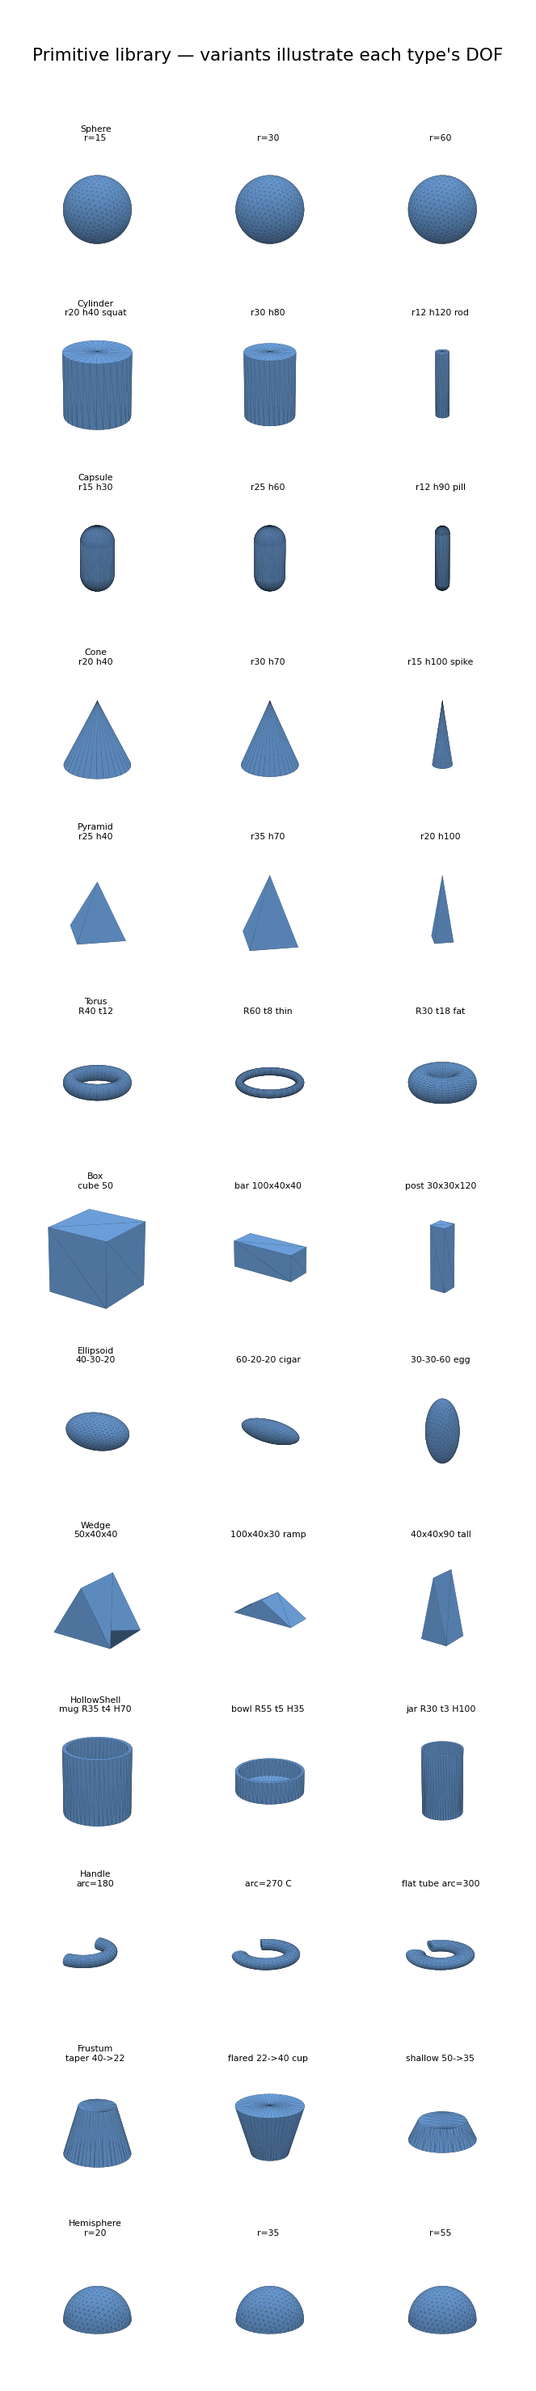
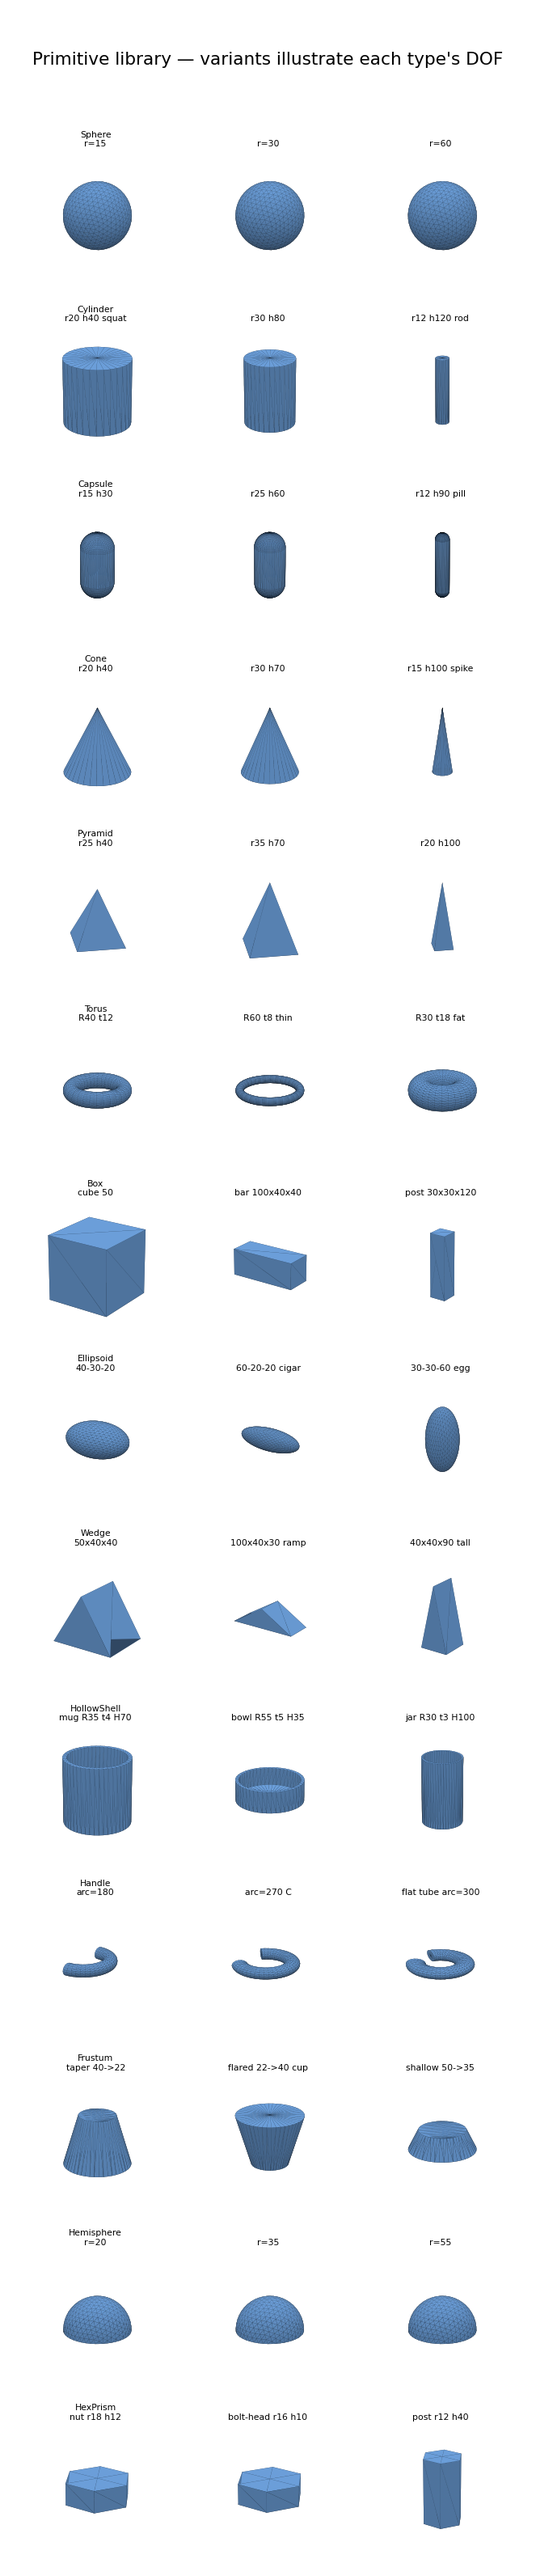
feat: cap per-type sampling + hex_prism (14 primitives) — fix handle over-use, finish audit
Handle over-selection: the highly-graspable handle was being sampled ~38% of
parts. Fix in cem.py: (1) lower the accessory types' initial weight (handle 0.5,
torus 0.7); (2) cap any single type at 18% of the learned distribution
(_cap_type_probs water-fills the excess into the other ACTIVE types, preserving
the v1 paper_repro 4-type palette — no-op when <=4 types are active). Measured:
handle 38% -> 16%, max single-type share <=18%, distribution now diverse.

Hex prism (last audit proposal, v2.5): HexPrism primitive
(cylinder(sections=6), 2 DOF, exact analytic volume) + PRIMITIVE_SPECS row;
nut and bolt rewired off the round cylinder / 4-gon pyramid to a real hex.
118 tests pass; primitive set is now 14 types; galleries + docs/README/website
updated. The fidelity audit is fully closed — all five proposed primitives built.

diff --git a/docs/index.html b/docs/index.html
@@ -250,9 +250,9 @@
         <div class="column is-6">
           <div class="box">
             <h3 class="title is-5"><span class="pillar-tag" style="background:#2196F3;">1</span> Parametric primitives</h3>
-            <p>Each object is a union of primitives drawn from <strong>13 types</strong> (box, cylinder,
-            sphere, capsule, cone, pyramid, torus, ellipsoid, wedge, plus a hollow shell and a handle for
-            realistic containers) with rigid transforms. Mass, COM, and inertia are closed-form or
+            <p>Each object is a union of primitives drawn from <strong>14 types</strong> (box, cylinder,
+            sphere, capsule, cone, pyramid, torus, ellipsoid, wedge, plus a hollow shell, handle, frustum,
+            hemisphere, and hex prism for realistic containers, tapers, domes, and fasteners) with rigid transforms. Mass, COM, and inertia are closed-form or
             mesh-derived, so every exported asset ships with physically consistent inertial properties.</p>
           </div>
         </div>
@@ -300,7 +300,7 @@
     <div class="container is-max-desktop">
       <h2 class="title is-3 has-text-centered">Shape library &amp; limitations</h2>
       <p class="has-text-centered" style="max-width:760px;margin:0 auto 1.5rem;">
-        Objects are assembled from 13 primitive types. Each row below varies one type to show its
+        Objects are assembled from 14 primitive types. Each row below varies one type to show its
         <em>degrees of freedom</em> &mdash; how many independent shape parameters it has (a sphere has
         one, a box has three). The newest two &mdash; a <strong>hollow shell</strong> and a
         <strong>handle</strong> &mdash; were added from this audit to make mugs, cups, and pots real
@@ -309,7 +309,7 @@
         <div class="column is-two-thirds">
           <div class="figure-container">
             <img src="./static/images/primitives.png" alt="Primitive gallery">
-            <p class="figure-caption">The 13 primitive types, each shown with variants that exercise its
+            <p class="figure-caption">The 14 primitive types, each shown with variants that exercise its
               degrees of freedom.</p>
           </div>
         </div>

diff --git a/src/cem.py b/src/cem.py
@@ -24,7 +24,7 @@ from pathlib import Path
 from primitives import (
     CompositeObject, Primitive, Box, Cylinder, Sphere, Capsule,
     Cone, Pyramid, Torus, Ellipsoid, Wedge, HollowShell, Handle, Frustum, Hemisphere,
-    Transform, PrimitiveType, seat_height, half_extents,
+    HexPrism, Transform, PrimitiveType, seat_height, half_extents,
 )
 from scoring import ObjectScorer, ScoreBreakdown, ScoringConfig
 
@@ -132,13 +132,60 @@ PRIMITIVE_SPECS: List[PrimitiveSpec] = [
                   np.array([0.012]), np.array([0.08]),
                   build=lambda p, t: Hemisphere(radius=p[0], transform=t),
                   extract=lambda pr: np.array([pr.radius])),
+    PrimitiveSpec(PrimitiveType.HEX_PRISM, ['radius', 'height'],
+                  _log(0.018, 0.012), np.array([0.3, 0.3]),
+                  np.array([0.006, 0.004]), np.array([0.04, 0.05]),
+                  build=lambda p, t: HexPrism(radius=p[0], height=p[1], transform=t),
+                  extract=lambda pr: np.array([pr.radius, pr.height])),
 ]
 
 # Default type bias: favor box/cylinder slightly, rest uniform.
-_DEFAULT_TYPE_WEIGHTS = np.ones(len(PRIMITIVE_SPECS))
-_DEFAULT_TYPE_WEIGHTS[0] = 2.0   # box
-_DEFAULT_TYPE_WEIGHTS[1] = 1.5   # cylinder
 _SPEC_INDEX = {s.ptype: i for i, s in enumerate(PRIMITIVE_SPECS)}
+
+# Initial per-type sampling weights (robust to spec ordering). Boxes/cylinders are
+# the bread-and-butter building blocks; the handle/torus are ACCESSORY shapes that
+# read as standalone objects poorly (a lone C-arc), so they start rare. The CEM
+# still adapts these from the elites, but the per-type cap below keeps any one type
+# (notably the very-graspable handle) from taking over the distribution.
+_DEFAULT_TYPE_WEIGHTS = np.ones(len(PRIMITIVE_SPECS))
+_TYPE_INIT_WEIGHT = {
+    PrimitiveType.BOX: 2.0, PrimitiveType.CYLINDER: 1.5,
+    PrimitiveType.TORUS: 0.7, PrimitiveType.HANDLE: 0.5,
+}
+for _ti, _w in _TYPE_INIT_WEIGHT.items():
+    if _ti in _SPEC_INDEX:
+        _DEFAULT_TYPE_WEIGHTS[_SPEC_INDEX[_ti]] = _w
+
+# No single primitive type may exceed this share of the learned distribution —
+# preserves diversity so the CEM doesn't collapse onto one favourite type.
+_MAX_TYPE_PROB = 0.18
+
+
+def _cap_type_probs(probs: np.ndarray, cap: float = _MAX_TYPE_PROB) -> np.ndarray:
+    """Cap each type's probability at ``cap``, water-filling the excess only into
+    types that already carry mass (so EXCLUDED types stay at zero — important for
+    the v1 paper_repro palette). No-ops when <=4 types are active (the v1 case)."""
+    p = np.asarray(probs, dtype=float).copy()
+    s = p.sum()
+    if s <= 0:
+        return p
+    p = p / s
+    active = p > 1e-9                      # excluded (zero) types must stay excluded
+    if int(active.sum()) <= 4:             # v1 4-type repro: leave it alone
+        return p
+    for _ in range(8):
+        over = p > cap
+        if not over.any():
+            break
+        excess = float((p[over] - cap).sum())
+        p[over] = cap
+        room_mask = active & (p < cap)
+        room = p[room_mask]
+        if room.sum() <= 1e-12:
+            break
+        p[room_mask] = p[room_mask] + excess * room / room.sum()
+    t = p.sum()
+    return p / t if t > 0 else p
 
 # Floors so learned spread never collapses to zero.
 _OFFSET_STD_FLOOR = 0.005
@@ -454,7 +501,8 @@ class CEMOptimizer:
         if ptype_counts.sum() > 0:
             new_probs = ptype_counts / ptype_counts.sum()
             new_probs = (new_probs + 0.01) / (new_probs + 0.01).sum()
-            dist.primitive_type_probs = lr * new_probs + (1 - lr) * dist.primitive_type_probs
+            dist.primitive_type_probs = _cap_type_probs(
+                lr * new_probs + (1 - lr) * dist.primitive_type_probs)
 
         # Per-type size parameters (log-space)
         for ti, spec in enumerate(PRIMITIVE_SPECS):

diff --git a/src/archetypes.py b/src/archetypes.py
@@ -21,7 +21,7 @@ from typing import Callable, Dict
 from primitives import (
     CompositeObject, Box, Cylinder, Sphere, Capsule,
     Cone, Pyramid, Torus, Ellipsoid, Wedge, HollowShell, Handle, Frustum, Hemisphere,
-    seat_height, Transform,
+    HexPrism, seat_height, Transform,
     # existing v1 factories (registered below)
     create_small_box, create_tall_box, create_flat_box, create_mug_like,
     create_l_shape, create_dumbbell, create_hammer, create_bottle,
@@ -133,6 +133,11 @@ def _hemi(r, x=0.0, y=0.0, z=None, euler=None):
     z = seat_height(p) if z is None else z
     p.transform = _T(x, y, z, euler)
     return p
+
+
+def _hex(r, h, x=0.0, y=0.0, z=None, euler=None):
+    z = h / 2 if z is None else z
+    return HexPrism(radius=r, height=h, transform=_T(x, y, z, euler))
 
 
 def _ell(rx, ry, rz, x=0.0, y=0.0, z=None, euler=None):
@@ -610,15 +615,15 @@ def create_binder_ring(R: float = 0.03, spine_h: float = 0.10) -> CompositeObjec
 @archetype("bolt")
 def create_bolt(shaft_r: float = 0.008, shaft_h: float = 0.06,
                 head_r: float = 0.016) -> CompositeObject:
-    head = _pyr(head_r, 0.012)
+    head = _hex(head_r, 0.012)                         # hex bolt head, not a pyramid
     shaft = _cyl(shaft_r, shaft_h, z=0.012 / 2 + shaft_h / 2 - 0.003)
     return _co("bolt", head, shaft)
 
 
 @archetype("nut")
 def create_nut(r: float = 0.018, h: float = 0.012, hole_r: float = 0.007) -> CompositeObject:
-    body = _cyl(r, h)
-    ring = _tor(r * 0.7, 0.004, z=h / 2)
+    body = _hex(r, h)                                  # hex flats, not a round cylinder
+    ring = _tor(r * 0.6, 0.004, z=h / 2)               # threaded-hole rim
     return _co("nut", body, ring)
 
 

diff --git a/src/primitives.py b/src/primitives.py
@@ -30,6 +30,8 @@ class PrimitiveType(Enum):
     # v2.3 additions — tapered/domed shapes.
     FRUSTUM = "frustum"
     HEMISPHERE = "hemisphere"
+    # v2.5 addition — faceted fastener.
+    HEX_PRISM = "hex_prism"
 
 
 @dataclass
@@ -568,6 +570,30 @@ class Hemisphere(Primitive):
 
     def volume(self) -> float:
         return float(2.0 / 3.0 * np.pi * self.radius ** 3)
+
+    def inertia_tensor(self, density: float = 1000.0) -> np.ndarray:
+        return self._mesh_inertia(density)
+
+
+@dataclass
+class HexPrism(Primitive):
+    """Regular hexagonal prism — for hex nuts and bolt heads (a round cylinder or
+    4-gon pyramid is the wrong shape for a fastener). +Z axis, ``radius`` is the
+    circumradius (centre-to-corner); centered on its centroid."""
+    radius: float = 0.018
+    height: float = 0.012
+
+    def __post_init__(self):
+        object.__setattr__(self, 'ptype', PrimitiveType.HEX_PRISM)
+
+    def to_mesh(self) -> trimesh.Trimesh:
+        mesh = trimesh.creation.cylinder(radius=self.radius, height=self.height,
+                                         sections=6)  # already centred on origin
+        mesh.apply_transform(self.transform.as_matrix())
+        return mesh
+
+    def volume(self) -> float:
+        return float(1.5 * np.sqrt(3.0) * self.radius ** 2 * self.height)
 
     def inertia_tensor(self, density: float = 1000.0) -> np.ndarray:
         return self._mesh_inertia(density)

diff --git a/scripts/render_primitives.py b/scripts/render_primitives.py
@@ -30,7 +30,7 @@ sys.path.insert(0, str(Path(__file__).resolve().parent))
 
 from primitives import (Box, Cylinder, Sphere, Capsule, Cone, Pyramid,  # noqa: E402
                         Torus, Ellipsoid, Wedge, HollowShell, Handle,
-                        Frustum, Hemisphere)
+                        Frustum, Hemisphere, HexPrism)
 from cem import PRIMITIVE_SPECS                                          # noqa: E402
 from _render_common import grid                                         # noqa: E402
 
@@ -104,6 +104,11 @@ GALLERY = [
         ("r=20", Hemisphere(radius=0.020)),
         ("r=35", Hemisphere(radius=0.035)),
         ("r=55", Hemisphere(radius=0.055)),
+    ]),
+    ("HexPrism  (2 DOF: radius, height)", [
+        ("nut r18 h12", HexPrism(radius=0.018, height=0.012)),
+        ("bolt-head r16 h10", HexPrism(radius=0.016, height=0.010)),
+        ("post r12 h40", HexPrism(radius=0.012, height=0.040)),
     ]),
 ]
 

diff --git a/tests/test_v2.py b/tests/test_v2.py
@@ -11,7 +11,7 @@ import pytest
 import primitives as P
 from primitives import (
     Box, Cylinder, Sphere, Capsule, Cone, Pyramid, Torus, Ellipsoid, Wedge,
-    HollowShell, Handle, Frustum, Hemisphere, Transform, seat_height,
+    HollowShell, Handle, Frustum, Hemisphere, HexPrism, Transform, seat_height,
 )
 from archetypes import ARCHETYPE_REGISTRY
 from scoring import ObjectScorer, ScoringConfig
@@ -38,6 +38,7 @@ PRIMS = {
                      arc_angle=1.5 * np.pi),
     "frustum": Frustum(radius_bottom=0.04, radius_top=0.025, height=0.06),
     "hemisphere": Hemisphere(radius=0.03),
+    "hex_prism": HexPrism(radius=0.018, height=0.012),
 }
 
 

diff --git a/docs/PRIMITIVES.md b/docs/PRIMITIVES.md
@@ -1,6 +1,6 @@
 # Primitive & Archetype Library — gallery, math, and fidelity audit
 
-This document (a) catalogs the **13 primitive types** the generator builds objects
+This document (a) catalogs the **14 primitive types** the generator builds objects
 from — with a picture, parameters, degrees of freedom (DOF), clamp ranges, math,
 and **limitations**; (b) audits the hand-written **archetypes** to show which
 real-world shapes are currently *faked* because the primitive set is too small;
@@ -48,9 +48,11 @@ clamped to `[min, max]`):
 | handle ✨ | 4 | major, tube_a, tube_b, arc | 0.02, 0.006, 0.005, 4.71 | 0.01, 0.003, 0.003, 1.88 | 0.05, 0.012, 0.012, 5.97 |
 | frustum ✨ | 3 | r_bot, r_top, height | 0.04, 0.025, 0.06 | 0.008, 0.005, 0.02 | 0.08, 0.08, 0.14 |
 | hemisphere ✨ | 1 | radius | 0.03 | 0.012 | 0.08 |
+| hex_prism ✨ | 2 | radius, height | 0.018, 0.012 | 0.006, 0.004 | 0.04, 0.05 |
 
-**Total: 32 sampled shape parameters across 13 types** (✨ = the audit-driven
-additions: v2.2 hollow_shell + handle, v2.3 frustum + hemisphere). Each primitive also
+**Total: 34 sampled shape parameters across 14 types** (✨ = the audit-driven
+additions: v2.2 hollow_shell + handle, v2.3 frustum + hemisphere, v2.5 hex_prism).
+Each primitive also
 carries a 6-DOF `Transform` (position + orientation) set during composition.
 
 ### Math & construction (per type)
@@ -73,6 +75,7 @@ carries a 6-DOF `Transform` (position + orientation) set during composition.
 | **Handle** ✨ | `π·a·b·R·arc` | manual elliptical-tube sweep along a circular arc, fan-capped | `_mesh_inertia` |
 | **Frustum** ✨ | `π h/3 (r₀²+r₀r₁+r₁²)` | cone **intersected** with a clip box at z=H (CSG) | `_mesh_inertia` |
 | **Hemisphere** ✨ | `2/3 π r³` | `icosphere` **intersected** with the z≥0 half-space (CSG) | `_mesh_inertia` |
+| **HexPrism** ✨ | `3√3/2 · r² h` | `cylinder(sections=6)` | `_mesh_inertia` |
 
 ### Limitations (what each type **cannot** represent)
 
@@ -208,10 +211,11 @@ Adding any of these is the standard two-step: a `@dataclass` subclass in
 `PRIMITIVE_SPECS` row in `cem.py` + a `PrimitiveType` enum entry, then a `_helper`
 in `archetypes.py` and a rewrite of the affected archetypes.
 
-> **Status:** 4.1–4.4 are now **IMPLEMENTED** — hollow shell + handle (v2.2),
-> frustum + hemisphere (v2.3) — see `primitives.py`, the `PRIMITIVE_SPECS` rows in
-> `cem.py`, and the rewired archetypes (`mug_like`/`cup`/`pot`/`teapot`/`jar`/`bowl`
-> + `plunger`/`trophy`/`ladle`). Only 4.5 (hex prism) remains a proposal.
+> **Status: ALL FIVE proposals are now IMPLEMENTED** — hollow shell + handle
+> (v2.2), frustum + hemisphere (v2.3), hex prism (v2.5) — see `primitives.py`, the
+> `PRIMITIVE_SPECS` rows in `cem.py`, and the rewired archetypes
+> (`mug_like`/`cup`/`pot`/`teapot`/`jar`/`bowl` + `plunger`/`trophy`/`ladle` +
+> `nut`/`bolt`). The primitive set went 9 → 14.
 
 ### 4.1 Hollow shell / open container  ★ ✅ IMPLEMENTED
 - **Replaces:** solid-cylinder bodies of `mug_like`, `cup`, `pot`, `jar`, `bowl`; extends to `teapot`/`wine_glass` (round variant) and `funnel` (open cone).
@@ -249,7 +253,7 @@ in `archetypes.py` and a rewrite of the affected archetypes.
 - **Spec row template:** `['radius']`, defaults `_log(0.04)`, clamp `[0.012]…[0.08]`.
 - **Risk:** minimal; it's a clipped sphere of revolution.
 
-### 4.5 n-gon prism (hex)  ▫ low impact
+### 4.5 n-gon prism (hex)  ▫ ✅ IMPLEMENTED
 - **Replaces:** `nut` body, `bolt` head (currently round cylinder / 4-gon pyramid).
 - **Params (2 DOF + fixed n):** `radius`, `height` (n=6 hex by default).
 - **Math:** regular-polygon prism `V = ½ n r² sin(2π/n)·h`; analytic or `_mesh_inertia`.
@@ -266,8 +270,8 @@ in `archetypes.py` and a rewrite of the affected archetypes.
 | Handle / arc | 4 | mug, cup, pot, teapot | manual elliptical-tube sweep | ✅ **built (v2.2)** |
 | Frustum | 3 | plunger, trophy, buckets, flowerpots | cone ∩ clip box (CSG) | ✅ **built (v2.3)** |
 | Hemisphere | 1 | ladle, lids, domes | sphere ∩ half-space (CSG) | ✅ **built (v2.3)** |
-| Hex prism | 2 | nut, bolt | `cylinder(sections=6)` | proposed |
+| Hex prism | 2 | nut, bolt | `cylinder(sections=6)` | ✅ **built (v2.5)** |
 
 **Done:** v2.2 hollow shell + handle (mug/cup/pot/teapot/jar/bowl) and v2.3
 frustum + hemisphere (plunger/trophy/ladle) — all rebuilt and connected; see the
-archetype gallery. **Remaining proposal:** the hex prism (cosmetic, for fasteners).
+archetype gallery. **All five proposals are now built** — the audit is fully closed.

diff --git a/README.md b/README.md
@@ -100,7 +100,7 @@ Two knobs control how many objects flow through the pipeline:
 ## How It Works
 
 ### 1. Parametric Object Representation
-Objects are compositions of **13 primitive types** (the 9 base shapes plus v2.2 hollow-shell + handle and v2.3 frustum + hemisphere for realistic containers, handles, tapers, and domes) with rigid transforms. This keeps generation fast and interpretable. See the [**Shape Library & Limitations**](#shape-library--limitations) section below for the full gallery, parameters, and a fidelity audit.
+Objects are compositions of **14 primitive types** (the 9 base shapes plus v2.2 hollow-shell + handle, v2.3 frustum + hemisphere, and v2.5 hex-prism for realistic containers, handles, tapers, domes, and fasteners) with rigid transforms. This keeps generation fast and interpretable. See the [**Shape Library & Limitations**](#shape-library--limitations) section below for the full gallery, parameters, and a fidelity audit.
 
 ### 2. Constraint-Based Scoring
 Each object is scored on manipulation-relevant criteria:
@@ -133,7 +133,7 @@ Generated objects are exported with:
 
 ## Shape Library & Limitations
 
-The generator assembles objects from **13 primitive types**. Each row below varies
+The generator assembles objects from **14 primitive types**. Each row below varies
 one type to show its **degrees of freedom** (DOF) — how many independent shape
 parameters it has (sphere = 1, box = 3):
 
@@ -154,6 +154,7 @@ parameters it has (sphere = 1, box = 3):
 | **handle** ✨ | 4 | major, tube_a, tube_b, arc | C-shaped elliptical-tube arc |
 | **frustum** ✨ | 3 | r_bot, r_top, height | flared / truncated cone |
 | **hemisphere** ✨ | 1 | radius | dome / scoop |
+| **hex_prism** ✨ | 2 | radius, height | hex nut / bolt head |
 
 ### Faked shapes → missing primitives
 
@@ -163,7 +164,7 @@ solid or full-ring stand-in — a mug body was a *solid* cylinder, a cup handle 
 *full* torus. **v2.2 added `hollow_shell` + `handle`** and **v2.3 added `frustum`
 + `hemisphere`**, so mug/cup/pot/teapot/jar/bowl are now real hollow vessels with
 C-handles, and plunger/trophy/ladle have proper flared cups and dome scoops (see
-the archetype gallery). Only the hex fastener remains.
+the archetype gallery). All five audit-proposed primitives are now built.
 
 | Faked feature | Old stand-in | Archetypes | Primitive | Status |
 |---|---|---|---|---|
@@ -171,7 +172,7 @@ the archetype gallery). Only the hex fastener remains.
 | C-shaped handle | full torus / straight cylinder | mug, cup, pot, teapot | **Handle / arc** | ✅ built |
 | flared / truncated taper | solid cone (apex) | plunger, trophy, buckets | **Frustum** | ✅ built |
 | dome / scoop | solid sphere / capsule | ladle, lids, domes | **Hemisphere** | ✅ built |
-| hex fastener | round cylinder / pyramid | nut, bolt | **n-gon prism** | proposed |
+| hex fastener | round cylinder / pyramid | nut, bolt | **Hex prism** | ✅ built |
 
 ➡ **Full gallery, math, per-type limitations, accepted/rejected/optimized sample
 galleries, and ready-to-implement design sketches for the proposed primitives are

diff --git a/docs/gallery/README.md b/docs/gallery/README.md
@@ -9,7 +9,7 @@ primitives), and design sketches for proposed new primitives.
 
 ## Primitive library (`primitives.png`)
 
-The 13 primitive types, each shown with 2–3 variants illustrating its degrees of
+The 14 primitive types, each shown with 2–3 variants illustrating its degrees of
 freedom (sphere = 1 DOF, box = 3 DOF).
 
 ![primitives](primitives.png)
@@ -26,7 +26,7 @@ limits generation quality.
 ## Archetype library (`archetypes.png`)
 
 All 80 hand-written archetypes in `ARCHETYPE_REGISTRY` (`src/archetypes.py`),
-built from the 13 primitive types (box, cylinder, sphere, capsule, cone, pyramid,
+built from the 14 primitive types (box, cylinder, sphere, capsule, cone, pyramid,
 torus, ellipsoid, wedge). Each is a single connected body.
 
 ![archetypes](archetypes.png)
